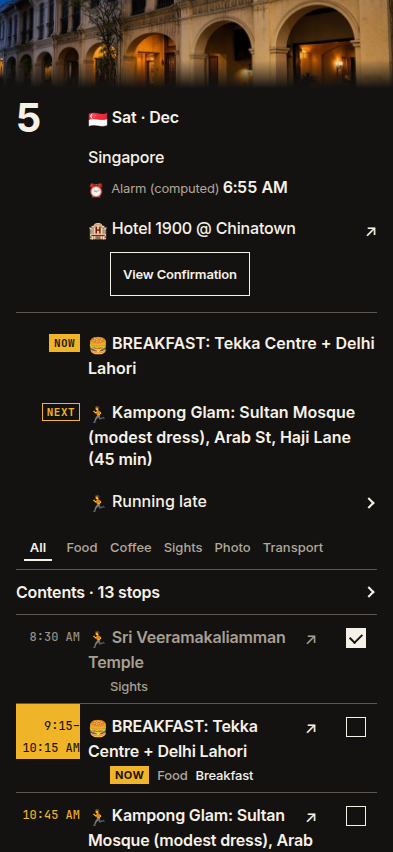
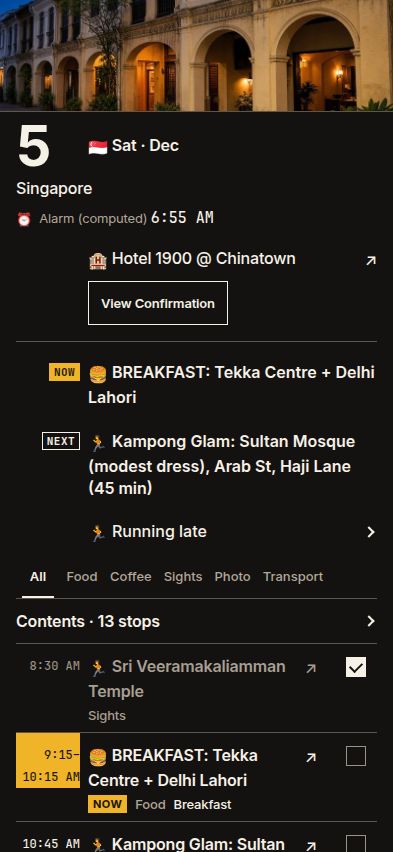
Keep amber for the current stop and drop the photo fade.
The city picture is a hard header, neighborhoods sit with the date, and other clocks stay bone.

diff --git a/mockups/v2/html/board-contents.html b/mockups/v2/html/board-contents.html
@@ -393,30 +393,30 @@
     [data-theme="board"] { --rule: #5e564e; }
     [data-theme="board"] .plate {
       display: block;
-      position: relative;
       margin: 8px -16px 0;
-      height: 88px;
+      height: 112px;
       overflow: hidden;
       background: #0c0b09;
-    }
-    [data-theme="board"] .plate::after {
-      content: "";
-      position: absolute;
-      left: 0;
-      right: 0;
-      bottom: 0;
-      height: 28px;
-      background: linear-gradient(to bottom, rgba(20, 18, 16, 0), #141210);
+      border-bottom: 1px solid #5e564e;
     }
     [data-theme="board"] .plate img {
       display: block;
       width: 100%;
-      height: 88px;
+      height: 112px;
       object-fit: cover;
-      object-position: center 38%;
+      object-position: center 40%;
     }
-    [data-theme="board"] .plate.singapore img { object-position: center 58%; }
-    [data-theme="board"] .dayhead { align-items: center; padding-top: 10px; }
+    [data-theme="board"] .plate.singapore img { object-position: center 62%; }
+    [data-theme="board"] .dayhead { align-items: center; padding-top: 12px; }
+    [data-theme="board"] .dnum { font-size: 56px; line-height: 0.8; }
+    [data-theme="board"] .areas,
+    [data-theme="board"] .alarm { grid-column: 1 / -1; }
+    [data-theme="board"] .big {
+      font-family: "JetBrains Mono", ui-monospace, monospace;
+      font-weight: 500;
+      font-size: 15px;
+      letter-spacing: 0;
+    }
     [data-theme="board"] .when,
     [data-theme="board"] .contents .when,
     [data-theme="board"] .nl .when {
@@ -424,7 +424,7 @@
       font-weight: 500;
       font-size: 12px;
       letter-spacing: 0;
-      color: #f0b429;
+      color: #f6f1e7;
     }
     [data-theme="board"] .when .flex,
     [data-theme="board"] .contents .when .flex { color: #9c9388; font-weight: 500; }
@@ -434,14 +434,14 @@
       box-shadow: none;
     }
     [data-theme="board"] .badge.nx {
-      color: #f0b429;
-      box-shadow: inset 0 0 0 1px #f0b429;
+      color: #f6f1e7;
+      box-shadow: inset 0 0 0 1px #f6f1e7;
     }
-    [data-theme="board"] .meta { padding-left: 22px; padding-bottom: 8px; }
+    [data-theme="board"] .meta { grid-column: 2; padding-left: 0; padding-bottom: 8px; }
     [data-theme="board"] .pl .go { margin-right: 8px; }
     [data-theme="board"] .crow .on { font-weight: 500; }
-    [data-theme="board"] .panel { padding-left: 22px; }
-    [data-theme="board"] .ia { letter-spacing: 0.08em; font-size: 12px; }
+    [data-theme="board"] .done::before { border-color: #9c9388; }
+    [data-theme="board"] .fchip.on::after { bottom: 0; left: 6px; right: 6px; }
     [data-theme="board"] .row.past .pl,
     [data-theme="board"] .row.past .tag,
     [data-theme="board"] .row.past .trv,
@@ -450,7 +450,7 @@
     [data-theme="board"] .row.past .when,
     [data-theme="board"] .crow.past .when,
     [data-theme="board"] .row.is-done .when { color: #9c9388; background: transparent; }
-    [data-theme="board"] .done[aria-pressed="true"]::before { background: #f6f1e7; }
+    [data-theme="board"] .done[aria-pressed="true"]::before { background: #f6f1e7; border-color: #f6f1e7; }
     [data-theme="board"] .done[aria-pressed="true"]::after { border-color: #141210; }
     [data-theme="board"] button:active,
     [data-theme="board"] a:active,

diff --git a/mockups/v2/html/board-day4.html b/mockups/v2/html/board-day4.html
@@ -393,30 +393,30 @@
     [data-theme="board"] { --rule: #5e564e; }
     [data-theme="board"] .plate {
       display: block;
-      position: relative;
       margin: 8px -16px 0;
-      height: 88px;
+      height: 112px;
       overflow: hidden;
       background: #0c0b09;
-    }
-    [data-theme="board"] .plate::after {
-      content: "";
-      position: absolute;
-      left: 0;
-      right: 0;
-      bottom: 0;
-      height: 28px;
-      background: linear-gradient(to bottom, rgba(20, 18, 16, 0), #141210);
+      border-bottom: 1px solid #5e564e;
     }
     [data-theme="board"] .plate img {
       display: block;
       width: 100%;
-      height: 88px;
+      height: 112px;
       object-fit: cover;
-      object-position: center 38%;
+      object-position: center 40%;
     }
-    [data-theme="board"] .plate.singapore img { object-position: center 58%; }
-    [data-theme="board"] .dayhead { align-items: center; padding-top: 10px; }
+    [data-theme="board"] .plate.singapore img { object-position: center 62%; }
+    [data-theme="board"] .dayhead { align-items: center; padding-top: 12px; }
+    [data-theme="board"] .dnum { font-size: 56px; line-height: 0.8; }
+    [data-theme="board"] .areas,
+    [data-theme="board"] .alarm { grid-column: 1 / -1; }
+    [data-theme="board"] .big {
+      font-family: "JetBrains Mono", ui-monospace, monospace;
+      font-weight: 500;
+      font-size: 15px;
+      letter-spacing: 0;
+    }
     [data-theme="board"] .when,
     [data-theme="board"] .contents .when,
     [data-theme="board"] .nl .when {
@@ -424,7 +424,7 @@
       font-weight: 500;
       font-size: 12px;
       letter-spacing: 0;
-      color: #f0b429;
+      color: #f6f1e7;
     }
     [data-theme="board"] .when .flex,
     [data-theme="board"] .contents .when .flex { color: #9c9388; font-weight: 500; }
@@ -434,14 +434,14 @@
       box-shadow: none;
     }
     [data-theme="board"] .badge.nx {
-      color: #f0b429;
-      box-shadow: inset 0 0 0 1px #f0b429;
+      color: #f6f1e7;
+      box-shadow: inset 0 0 0 1px #f6f1e7;
     }
-    [data-theme="board"] .meta { padding-left: 22px; padding-bottom: 8px; }
+    [data-theme="board"] .meta { grid-column: 2; padding-left: 0; padding-bottom: 8px; }
     [data-theme="board"] .pl .go { margin-right: 8px; }
     [data-theme="board"] .crow .on { font-weight: 500; }
-    [data-theme="board"] .panel { padding-left: 22px; }
-    [data-theme="board"] .ia { letter-spacing: 0.08em; font-size: 12px; }
+    [data-theme="board"] .done::before { border-color: #9c9388; }
+    [data-theme="board"] .fchip.on::after { bottom: 0; left: 6px; right: 6px; }
     [data-theme="board"] .row.past .pl,
     [data-theme="board"] .row.past .tag,
     [data-theme="board"] .row.past .trv,
@@ -450,7 +450,7 @@
     [data-theme="board"] .row.past .when,
     [data-theme="board"] .crow.past .when,
     [data-theme="board"] .row.is-done .when { color: #9c9388; background: transparent; }
-    [data-theme="board"] .done[aria-pressed="true"]::before { background: #f6f1e7; }
+    [data-theme="board"] .done[aria-pressed="true"]::before { background: #f6f1e7; border-color: #f6f1e7; }
     [data-theme="board"] .done[aria-pressed="true"]::after { border-color: #141210; }
     [data-theme="board"] button:active,
     [data-theme="board"] a:active,

diff --git a/mockups/v2/html/board-expanded.html b/mockups/v2/html/board-expanded.html
@@ -393,30 +393,30 @@
     [data-theme="board"] { --rule: #5e564e; }
     [data-theme="board"] .plate {
       display: block;
-      position: relative;
       margin: 8px -16px 0;
-      height: 88px;
+      height: 112px;
       overflow: hidden;
       background: #0c0b09;
-    }
-    [data-theme="board"] .plate::after {
-      content: "";
-      position: absolute;
-      left: 0;
-      right: 0;
-      bottom: 0;
-      height: 28px;
-      background: linear-gradient(to bottom, rgba(20, 18, 16, 0), #141210);
+      border-bottom: 1px solid #5e564e;
     }
     [data-theme="board"] .plate img {
       display: block;
       width: 100%;
-      height: 88px;
+      height: 112px;
       object-fit: cover;
-      object-position: center 38%;
+      object-position: center 40%;
     }
-    [data-theme="board"] .plate.singapore img { object-position: center 58%; }
-    [data-theme="board"] .dayhead { align-items: center; padding-top: 10px; }
+    [data-theme="board"] .plate.singapore img { object-position: center 62%; }
+    [data-theme="board"] .dayhead { align-items: center; padding-top: 12px; }
+    [data-theme="board"] .dnum { font-size: 56px; line-height: 0.8; }
+    [data-theme="board"] .areas,
+    [data-theme="board"] .alarm { grid-column: 1 / -1; }
+    [data-theme="board"] .big {
+      font-family: "JetBrains Mono", ui-monospace, monospace;
+      font-weight: 500;
+      font-size: 15px;
+      letter-spacing: 0;
+    }
     [data-theme="board"] .when,
     [data-theme="board"] .contents .when,
     [data-theme="board"] .nl .when {
@@ -424,7 +424,7 @@
       font-weight: 500;
       font-size: 12px;
       letter-spacing: 0;
-      color: #f0b429;
+      color: #f6f1e7;
     }
     [data-theme="board"] .when .flex,
     [data-theme="board"] .contents .when .flex { color: #9c9388; font-weight: 500; }
@@ -434,14 +434,14 @@
       box-shadow: none;
     }
     [data-theme="board"] .badge.nx {
-      color: #f0b429;
-      box-shadow: inset 0 0 0 1px #f0b429;
+      color: #f6f1e7;
+      box-shadow: inset 0 0 0 1px #f6f1e7;
     }
-    [data-theme="board"] .meta { padding-left: 22px; padding-bottom: 8px; }
+    [data-theme="board"] .meta { grid-column: 2; padding-left: 0; padding-bottom: 8px; }
     [data-theme="board"] .pl .go { margin-right: 8px; }
     [data-theme="board"] .crow .on { font-weight: 500; }
-    [data-theme="board"] .panel { padding-left: 22px; }
-    [data-theme="board"] .ia { letter-spacing: 0.08em; font-size: 12px; }
+    [data-theme="board"] .done::before { border-color: #9c9388; }
+    [data-theme="board"] .fchip.on::after { bottom: 0; left: 6px; right: 6px; }
     [data-theme="board"] .row.past .pl,
     [data-theme="board"] .row.past .tag,
     [data-theme="board"] .row.past .trv,
@@ -450,7 +450,7 @@
     [data-theme="board"] .row.past .when,
     [data-theme="board"] .crow.past .when,
     [data-theme="board"] .row.is-done .when { color: #9c9388; background: transparent; }
-    [data-theme="board"] .done[aria-pressed="true"]::before { background: #f6f1e7; }
+    [data-theme="board"] .done[aria-pressed="true"]::before { background: #f6f1e7; border-color: #f6f1e7; }
     [data-theme="board"] .done[aria-pressed="true"]::after { border-color: #141210; }
     [data-theme="board"] button:active,
     [data-theme="board"] a:active,

diff --git a/mockups/v2/html/board-now.html b/mockups/v2/html/board-now.html
@@ -393,30 +393,30 @@
     [data-theme="board"] { --rule: #5e564e; }
     [data-theme="board"] .plate {
       display: block;
-      position: relative;
       margin: 8px -16px 0;
-      height: 88px;
+      height: 112px;
       overflow: hidden;
       background: #0c0b09;
-    }
-    [data-theme="board"] .plate::after {
-      content: "";
-      position: absolute;
-      left: 0;
-      right: 0;
-      bottom: 0;
-      height: 28px;
-      background: linear-gradient(to bottom, rgba(20, 18, 16, 0), #141210);
+      border-bottom: 1px solid #5e564e;
     }
     [data-theme="board"] .plate img {
       display: block;
       width: 100%;
-      height: 88px;
+      height: 112px;
       object-fit: cover;
-      object-position: center 38%;
+      object-position: center 40%;
     }
-    [data-theme="board"] .plate.singapore img { object-position: center 58%; }
-    [data-theme="board"] .dayhead { align-items: center; padding-top: 10px; }
+    [data-theme="board"] .plate.singapore img { object-position: center 62%; }
+    [data-theme="board"] .dayhead { align-items: center; padding-top: 12px; }
+    [data-theme="board"] .dnum { font-size: 56px; line-height: 0.8; }
+    [data-theme="board"] .areas,
+    [data-theme="board"] .alarm { grid-column: 1 / -1; }
+    [data-theme="board"] .big {
+      font-family: "JetBrains Mono", ui-monospace, monospace;
+      font-weight: 500;
+      font-size: 15px;
+      letter-spacing: 0;
+    }
     [data-theme="board"] .when,
     [data-theme="board"] .contents .when,
     [data-theme="board"] .nl .when {
@@ -424,7 +424,7 @@
       font-weight: 500;
       font-size: 12px;
       letter-spacing: 0;
-      color: #f0b429;
+      color: #f6f1e7;
     }
     [data-theme="board"] .when .flex,
     [data-theme="board"] .contents .when .flex { color: #9c9388; font-weight: 500; }
@@ -434,14 +434,14 @@
       box-shadow: none;
     }
     [data-theme="board"] .badge.nx {
-      color: #f0b429;
-      box-shadow: inset 0 0 0 1px #f0b429;
+      color: #f6f1e7;
+      box-shadow: inset 0 0 0 1px #f6f1e7;
     }
-    [data-theme="board"] .meta { padding-left: 22px; padding-bottom: 8px; }
+    [data-theme="board"] .meta { grid-column: 2; padding-left: 0; padding-bottom: 8px; }
     [data-theme="board"] .pl .go { margin-right: 8px; }
     [data-theme="board"] .crow .on { font-weight: 500; }
-    [data-theme="board"] .panel { padding-left: 22px; }
-    [data-theme="board"] .ia { letter-spacing: 0.08em; font-size: 12px; }
+    [data-theme="board"] .done::before { border-color: #9c9388; }
+    [data-theme="board"] .fchip.on::after { bottom: 0; left: 6px; right: 6px; }
     [data-theme="board"] .row.past .pl,
     [data-theme="board"] .row.past .tag,
     [data-theme="board"] .row.past .trv,
@@ -450,7 +450,7 @@
     [data-theme="board"] .row.past .when,
     [data-theme="board"] .crow.past .when,
     [data-theme="board"] .row.is-done .when { color: #9c9388; background: transparent; }
-    [data-theme="board"] .done[aria-pressed="true"]::before { background: #f6f1e7; }
+    [data-theme="board"] .done[aria-pressed="true"]::before { background: #f6f1e7; border-color: #f6f1e7; }
     [data-theme="board"] .done[aria-pressed="true"]::after { border-color: #141210; }
     [data-theme="board"] button:active,
     [data-theme="board"] a:active,
